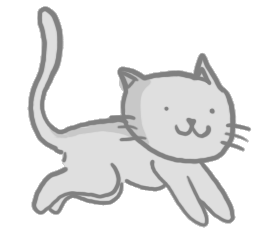
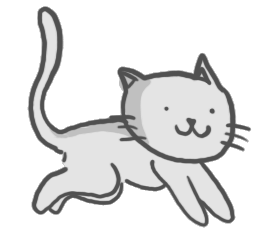
Added setting for cat opacity and flute volume to karaoke.

diff --git a/html/catx.band/karaoke/settings.js b/html/catx.band/karaoke/settings.js
@@ -22,6 +22,8 @@ class Settings{
 		"This must be power of 2 between 32 and 32768.  Bigger fftSize increases frequency resolution and decreases time resolution."],
 	    ["Metronome Pattern","metronomePattern","1+",String,"Try something like \"1+\" or \"1.+\" or \"1e+a\"."],
 	    ["Metronome Volume","metronomeVolume","0",Number,"Try something like \".1\"."],
+	    ["Flute Volume","fluteVolume",".25",Number,"Try something like \".25\"."],
+	    ["Cat Opacity","catOpacity",".2",Number,"Use 0 to make cat disappear."],
 	];
 	for (const s of this.settings){
 	    let match=document.cookie.match(s[1]+"=([^;]*)");

diff --git a/html/catx.band/karaoke/index.html b/html/catx.band/karaoke/index.html
@@ -177,7 +177,7 @@
 				const end=off.shift()||json.length;
 				const bendLow=binarySearch(bendEvents[ch],(x)=>x.t<time);
 				const bendHigh=binarySearch(bendEvents[ch],(x)=>x.t<end);
-				allNotes.push({t:time,duration:end-time,note:n,ch:ch,bends:bendEvents[ch].slice(bendLow,bendHigh),volume:.25});
+				allNotes.push({t:time,duration:end-time,note:n,ch:ch,bends:bendEvents[ch].slice(bendLow,bendHigh),volume:settings.fluteVolume});
 			    }
 			}
 		    allNotes.sort((x,y)=>x.t-y.t);

diff --git a/html/catx.band/karaoke/sheets.js b/html/catx.band/karaoke/sheets.js
@@ -150,6 +150,7 @@ class Sheets{
 		    if (page.my_page+1==measure[0]){
 			const cat=page.my_cats[((measureNumber*7*ee.n|0)%7+7)%7];
 			cat.style.visibility = "visible";
+			cat.style.opacity = settings.catOpacity;
 			cat.style.top = .5*((measure[3]+measure[5])*page.getBoundingClientRect().height-cat.getBoundingClientRect().height)+"px";
 			cat.style.right = 100*(1-measure[2]-measureNumber*(measure[4]-measure[2]))+"%";
 		    }
